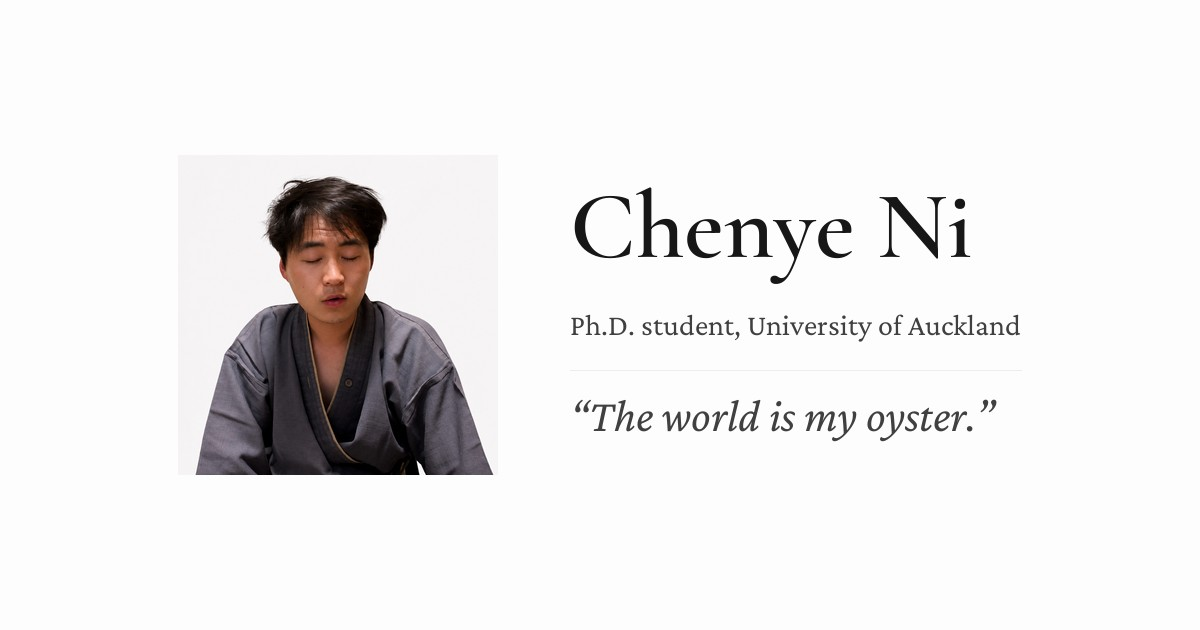
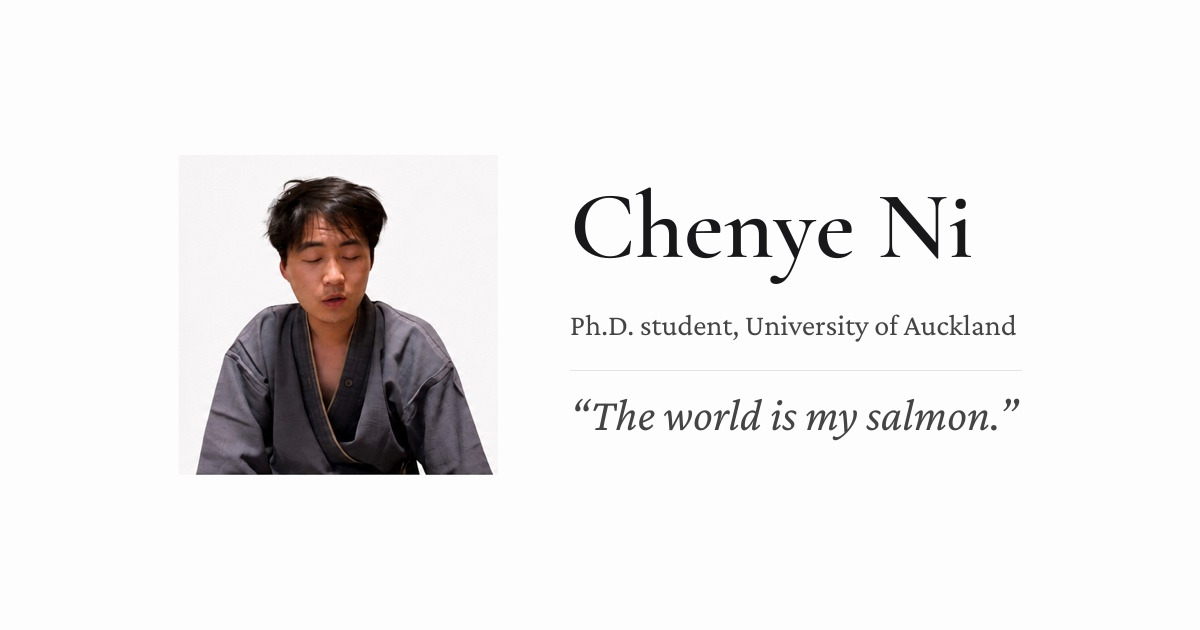
feat: add script to generate Open Graph image for personal branding

diff --git a/README.md b/README.md
@@ -18,6 +18,7 @@ npm run build    # output in dist/
 | To change | Edit |
 | --- | --- |
 | Name, greeting, bio, links | `src/site.ts` |
+| Sharing image | `scripts/generate-og.mjs`, then `npm run generate:og` |
 | Avatar | drop `avatar.jpg` into `src/assets/` (picked up automatically) |
 | Avatar hover frame | drop `avatar-hover.jpg` alongside it (optional) |
 | Collaborators | `src/authors.ts` |
@@ -26,6 +27,15 @@ npm run build    # output in dist/
 | CV PDF | place it at `public/cv.pdf` |
 | Blog posts | add a `.md` under `src/content/blog/` |
 | Type sizes, greys, spacing | the CSS variables at the top of `src/styles/global.css` |
+
+## Regenerating the sharing image
+
+After `npm ci`, run `npm run generate:og` to rebuild the 1200×630 `public/og.jpg`
+used by both Open Graph and Twitter. Edit the wording at the top of
+`scripts/generate-og.mjs`; layout is in the same file. The portrait source is
+`scripts/assets/og-portrait.png`, and fonts come from `public/fonts/`.
+Generation works offline even when `og.jpg` is missing; no AI or installed
+system fonts are needed. Run it explicitly before `npm run build` when changing the card.
 
 ## Adding a publication
 
